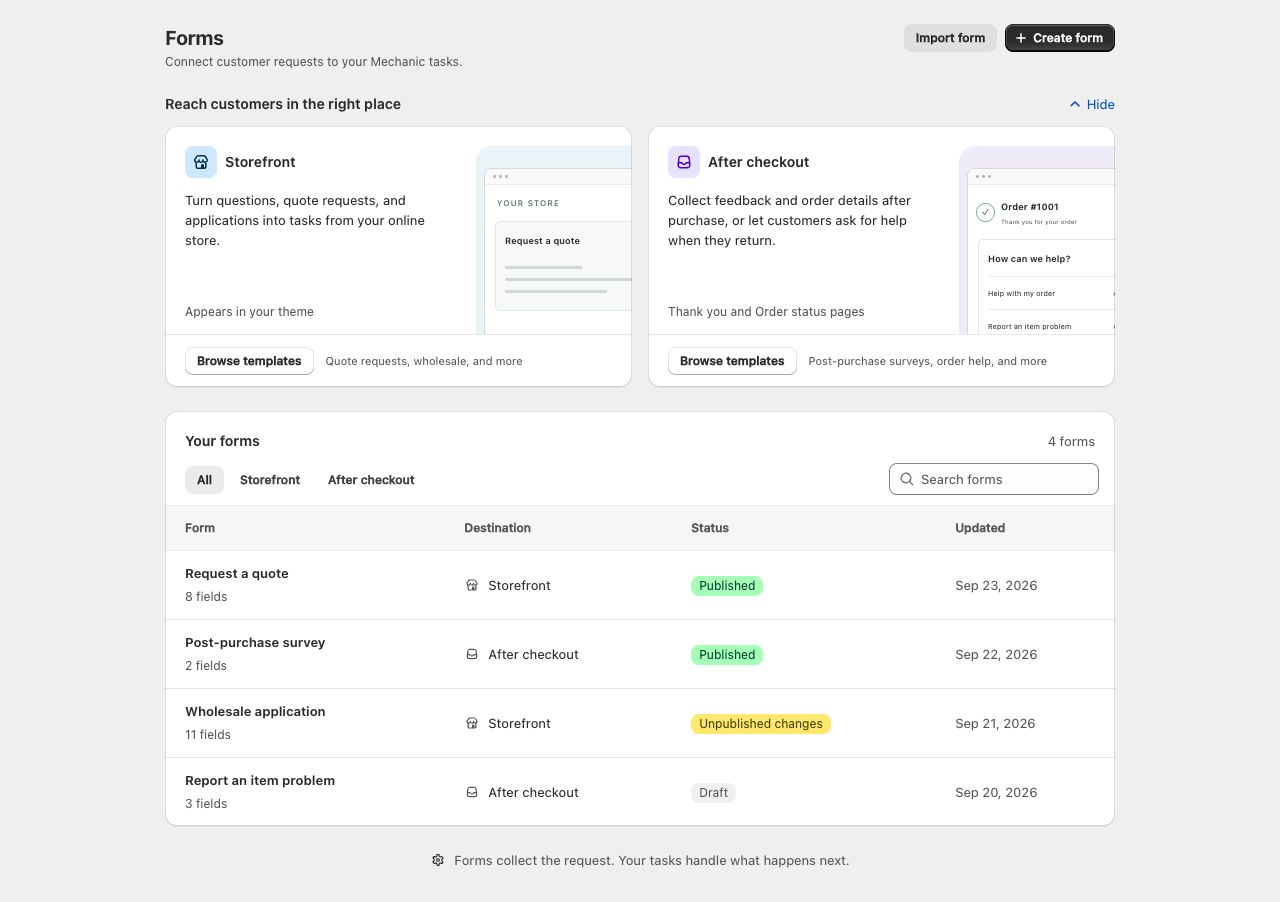
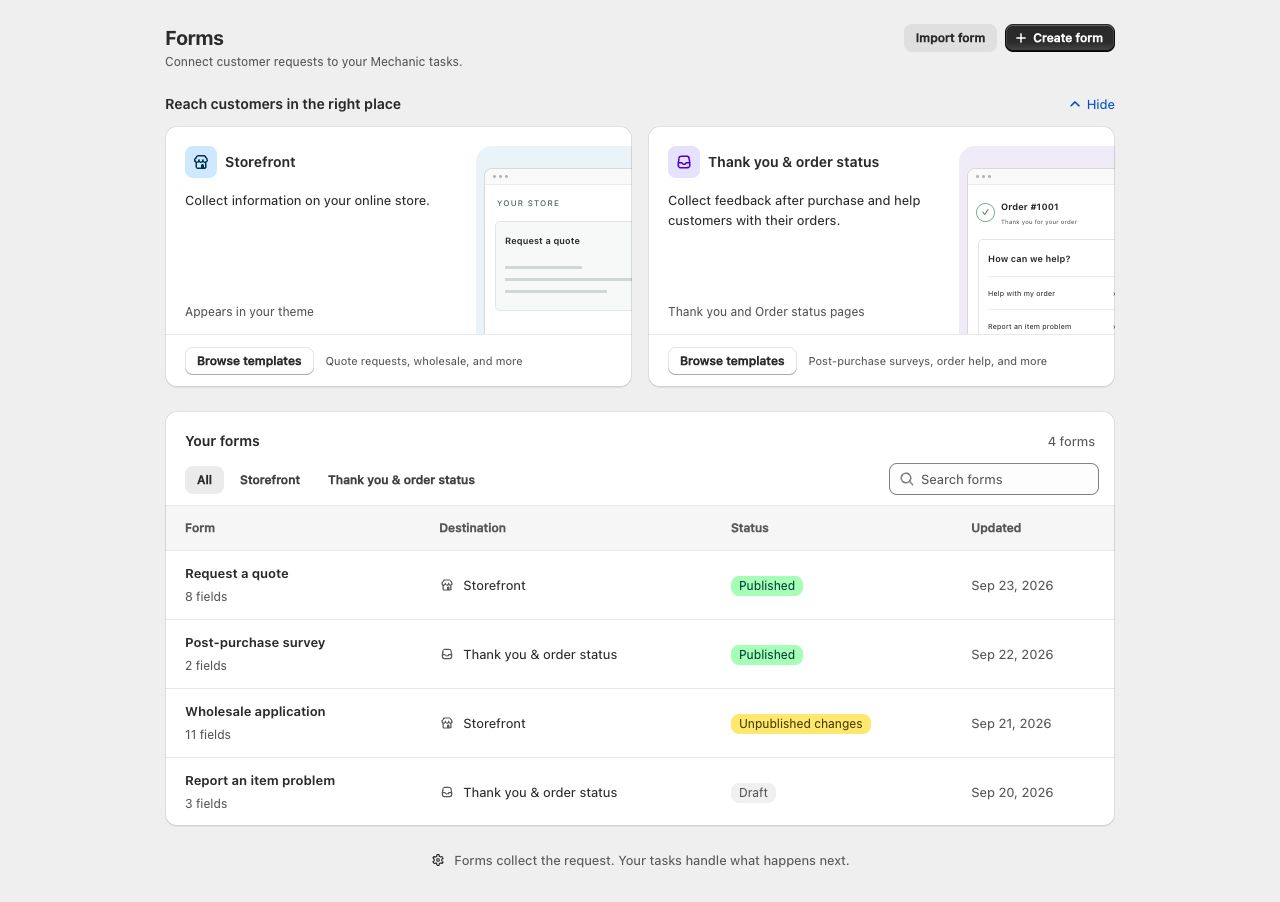
Use Shopify page names for form destinations

diff --git a/app/thank-you-and-order-status-forms.md b/app/thank-you-and-order-status-forms.md
@@ -2,13 +2,13 @@
 description: Collect feedback and order requests on Thank you and Order status, then let your Mechanic tasks handle the next step.
 ---
 
-# After-checkout forms
+# Thank you and Order status forms
 
-Ask how someone found your store, collect delivery details, or let a customer report a problem with an item they purchased. After-checkout forms connect those responses to your Mechanic tasks.
+Ask how someone found your store, collect delivery details, or let a customer report a problem with an item they purchased. Thank you and Order status forms connect those responses to your Mechanic tasks.
 
-Open **Forms** in Mechanic and choose **After checkout**. The same form can appear on Thank you, Order status, or both. Your tasks decide what happens next: save a survey to Google Sheets, notify your team, or track a request and share a response with the customer.
+Open **Forms** in Mechanic and choose **Thank you & order status**. The same form can appear on Thank you, Order status, or both. Your tasks decide what happens next: save a survey to Google Sheets, notify your team, or track a request and share a response with the customer.
 
-<figure><img src="../.gitbook/assets/after-checkout-forms-home.png" alt="Mechanic Forms home with Storefront and After checkout categories and a shared list of forms"><figcaption><p>Choose where to reach customers. Both categories use the same Forms workspace.</p></figcaption></figure>
+<figure><img src="../.gitbook/assets/after-checkout-forms-home.png" alt="Mechanic Forms home with Storefront and Thank you &amp; order status categories and a shared list of forms"><figcaption><p>Choose where to reach customers. Both categories use the same Forms workspace.</p></figcaption></figure>
 
 ## Choose where the form appears
 
@@ -19,12 +19,12 @@ Open **Forms** in Mechanic and choose **After checkout**. The same form can appe
 
 Mechanic checks the order context before accepting a submission. Thank you forms are available during the first hour after the order is created. They do not show previous answers or staff replies. To read a saved reply later, the customer signs in on Order status, and the form must have that placement and saved request progress enabled.
 
-Adding the block to one Shopify page does not add it to the other. [Storefront forms](forms.md), placed in your theme, are a separate destination. After-checkout forms do not appear during the payment steps or change checkout requirements.
+Adding the block to one Shopify page does not add it to the other. [Storefront forms](forms.md), placed in your theme, are a separate destination. Thank you and Order status forms do not appear during the payment steps or change checkout requirements.
 
 ## Start with a template
 
-1. Open **Forms → Create form**, choose **After checkout**, and select a template or start from scratch.
-2. Under **Where this form appears**, select Thank you, Order status, or both.
+1. Open **Forms → Create form**, choose **Thank you & order status**, and select a template or start from scratch.
+2. Under **Where this form appears**, select **Thank you page**, **Order status page**, or both.
 3. Edit the questions and confirmation message. Use **Try form** to check the question flow without sending a submission.
 4. In **Submission settings**, choose a [Mechanic webhook](../platform/webhooks.md) and configure the tasks that will receive it.
 5. Save and publish when the questions, tasks and availability settings are ready. Publishing is separate from saving a draft.
@@ -41,7 +41,7 @@ These starters collect information. They do not automatically change, cancel, re
 
 <figure><img src="../.gitbook/assets/after-checkout-survey-builder.png" alt="Post-purchase survey builder with Thank you selected and a preview of its questions"><figcaption><p>Use the same questions and tasks on one page or both. Save and publish to apply placement changes.</p></figcaption></figure>
 
-Questions support steps, conditional fields and one-question-at-a-time layouts. **Items from the order** lets customers select from their purchased items; Mechanic checks that submitted item IDs belong to the order. Shopify provides the native controls and appearance on these pages. The builder preview illustrates the questions, rather than reproducing Shopify's final page. File uploads and saving answers to the cart are not available for after-checkout forms.
+Questions support steps, conditional fields and one-question-at-a-time layouts. **Items from the order** lets customers select from their purchased items; Mechanic checks that submitted item IDs belong to the order. Shopify provides the native controls and appearance on these pages. The builder preview illustrates the questions, rather than reproducing Shopify's final page. File uploads and saving answers to the cart are not available for Thank you and Order status forms.
 
 ## Send a survey to Google Sheets
 

diff --git a/core/tasks/options/README.md b/core/tasks/options/README.md
@@ -100,13 +100,13 @@ Shop configuration input types are also available:
 | `global` | Dropdown of shop globals | selected global value | `options.shared_username__global_required` |
 | `secret` | Dropdown of shop secrets | opaque secret reference | `options.api_token__secret_required` |
 | `storefrontform` | Dropdown of published storefront forms | form ID string | `options.form__storefrontform_required` |
-| `orderstatusform` | Dropdown of published after-checkout forms | form ID string | `options.form__orderstatusform_required` |
+| `orderstatusform` | Dropdown of published Thank you and Order status forms | form ID string | `options.form__orderstatusform_required` |
 
 See [Globals and secrets](../../../platform/globals-and-secrets.md) for setup, the supported actions and filters, and safety details.
 
 A `storefrontform` option lets the merchant choose a published [storefront form](../../../app/forms.md) from their shop. It returns the selected form's ID. It can combine with `required`, but not array, key-value, or `userform` modifiers. If a selected form is later unpublished or deleted, its ID stays selected until the merchant changes it; this prevents a task filter from becoming empty unexpectedly. A plain option named `form` or an existing `__form` suffix keeps its previous meaning.
 
-An `orderstatusform` option selects a published [after-checkout form](../../../app/after-checkout-forms.md), whether it appears on Thank you, Order status, or both. It returns the form ID and supports `required`, with the same modifier restrictions and unavailable-selection behavior as `storefrontform`. Neither picker lists forms from the other destination.
+An `orderstatusform` option selects a published [Thank you and Order status form](../../../app/thank-you-and-order-status-forms.md), whether it appears on Thank you, Order status, or both. It returns the form ID and supports `required`, with the same modifier restrictions and unavailable-selection behavior as `storefrontform`. Neither picker lists forms from the other destination.
 
 When an option key uses a structured input type, that type wins before `global` or `secret` are considered. For example, `options.mode__select_o1_global_o2_secret_o3_local` is still a select dropdown whose choices are the literal strings `"global"`, `"secret"`, and `"local"`.
 
@@ -206,7 +206,7 @@ Liquid code in task options have access to the same set of [environment variable
 | String list    | `options.tags__array`                           | `["vip","wholesale"]`          |
 | Global selector | `options.shared_username__global_required`     | `"matt"`                       |
 | Storefront form selector | `options.form__storefrontform` | form ID string |
-| After-checkout form selector | `options.form__orderstatusform_required` | form ID string |
+| Thank you and Order status form selector | `options.form__orderstatusform_required` | form ID string |
 | Secret selector | `options.api_token__secret_required`           | secret reference               |
 | 0–100 slider   | `options.score__range_min0_max100`              | `42`                           |
 | Colour picker  | `options.bg__color`                             | `"#336699"`                    |

diff --git a/platform/liquid/objects/event.md b/platform/liquid/objects/event.md
@@ -35,9 +35,9 @@ This identifies the customer Shopify rendered. It does not authenticate the ente
 
 The helper is evaluated only when task code reads it, after normal webhook delivery. No additional verification request to Shopify or a special event topic is required. In task previews, use an illustrative customer fixture and render the actions needed for permission discovery, as usual.
 
-## After-checkout form request
+## Thank you and Order status form request
 
-For an [after-checkout form](../../../app/after-checkout-forms.md), `event.order_status_request` provides the request covered by Mechanic's signed receipt. The extension delivers it through the form's ordinary webhook topic. Use this object for the checked order context; a similarly named property in `event.data` is customer-supplied and is not trusted.
+For an [Thank you and Order status form](../../../app/thank-you-and-order-status-forms.md), `event.order_status_request` provides the request covered by Mechanic's signed receipt. The extension delivers it through the form's ordinary webhook topic. Use this object for the checked order context; a similarly named property in `event.data` is customer-supplied and is not trusted.
 
 It includes the request ID, form ID/title/revision, order ID/name, customer ID, answer fields, selected line items, issue time and repeat policy. `placement` is `thank_you` or `order_status`. `verification.method` is `checkout` or `customer_account`, and `verification.customer_authenticated` states whether Mechanic verified a signed-in customer. Thank you can be a guest submission: the order-associated customer ID can be absent, and a present ID alone is not proof of customer authentication. Checkout tokens are not exposed in this object.
 

diff --git a/app/forms.md b/app/forms.md
@@ -4,7 +4,7 @@ description: Collect quote requests, wholesale applications, service inquiries, 
 
 # Storefront forms
 
-The **Forms** workspace includes **Storefront** and **After checkout**. This guide covers forms placed in your online store theme. For post-purchase surveys and order requests on Thank you and Order status, see [After-checkout forms](after-checkout-forms.md).
+The **Forms** workspace includes **Storefront** and **Thank you & order status**. This guide covers forms placed in your online store theme. For post-purchase surveys and order requests on Thank you and Order status, see [Thank you and Order status forms](thank-you-and-order-status-forms.md).
 
 Storefront forms connect the people visiting your online store to your Mechanic tasks. Build a form for a quote request, wholesale application, warranty claim, or another workflow, and place it in your theme. When a visitor submits it, your tasks can email your team, save the answers, update Shopify, or connect to another service.
 

diff --git a/SUMMARY.md b/SUMMARY.md
@@ -260,7 +260,7 @@
 * [Activity](app/activity.md)
 * [Task editor](app/task-editor.md)
 * [Forms](app/forms.md)
-  * [After-checkout forms](app/after-checkout-forms.md)
+  * [Thank you and Order status forms](app/thank-you-and-order-status-forms.md)
 * [Events](app/events.md)
 * [Settings](app/settings.md)
 * [Ask Mechanic](app/ask-mechanic.md)
